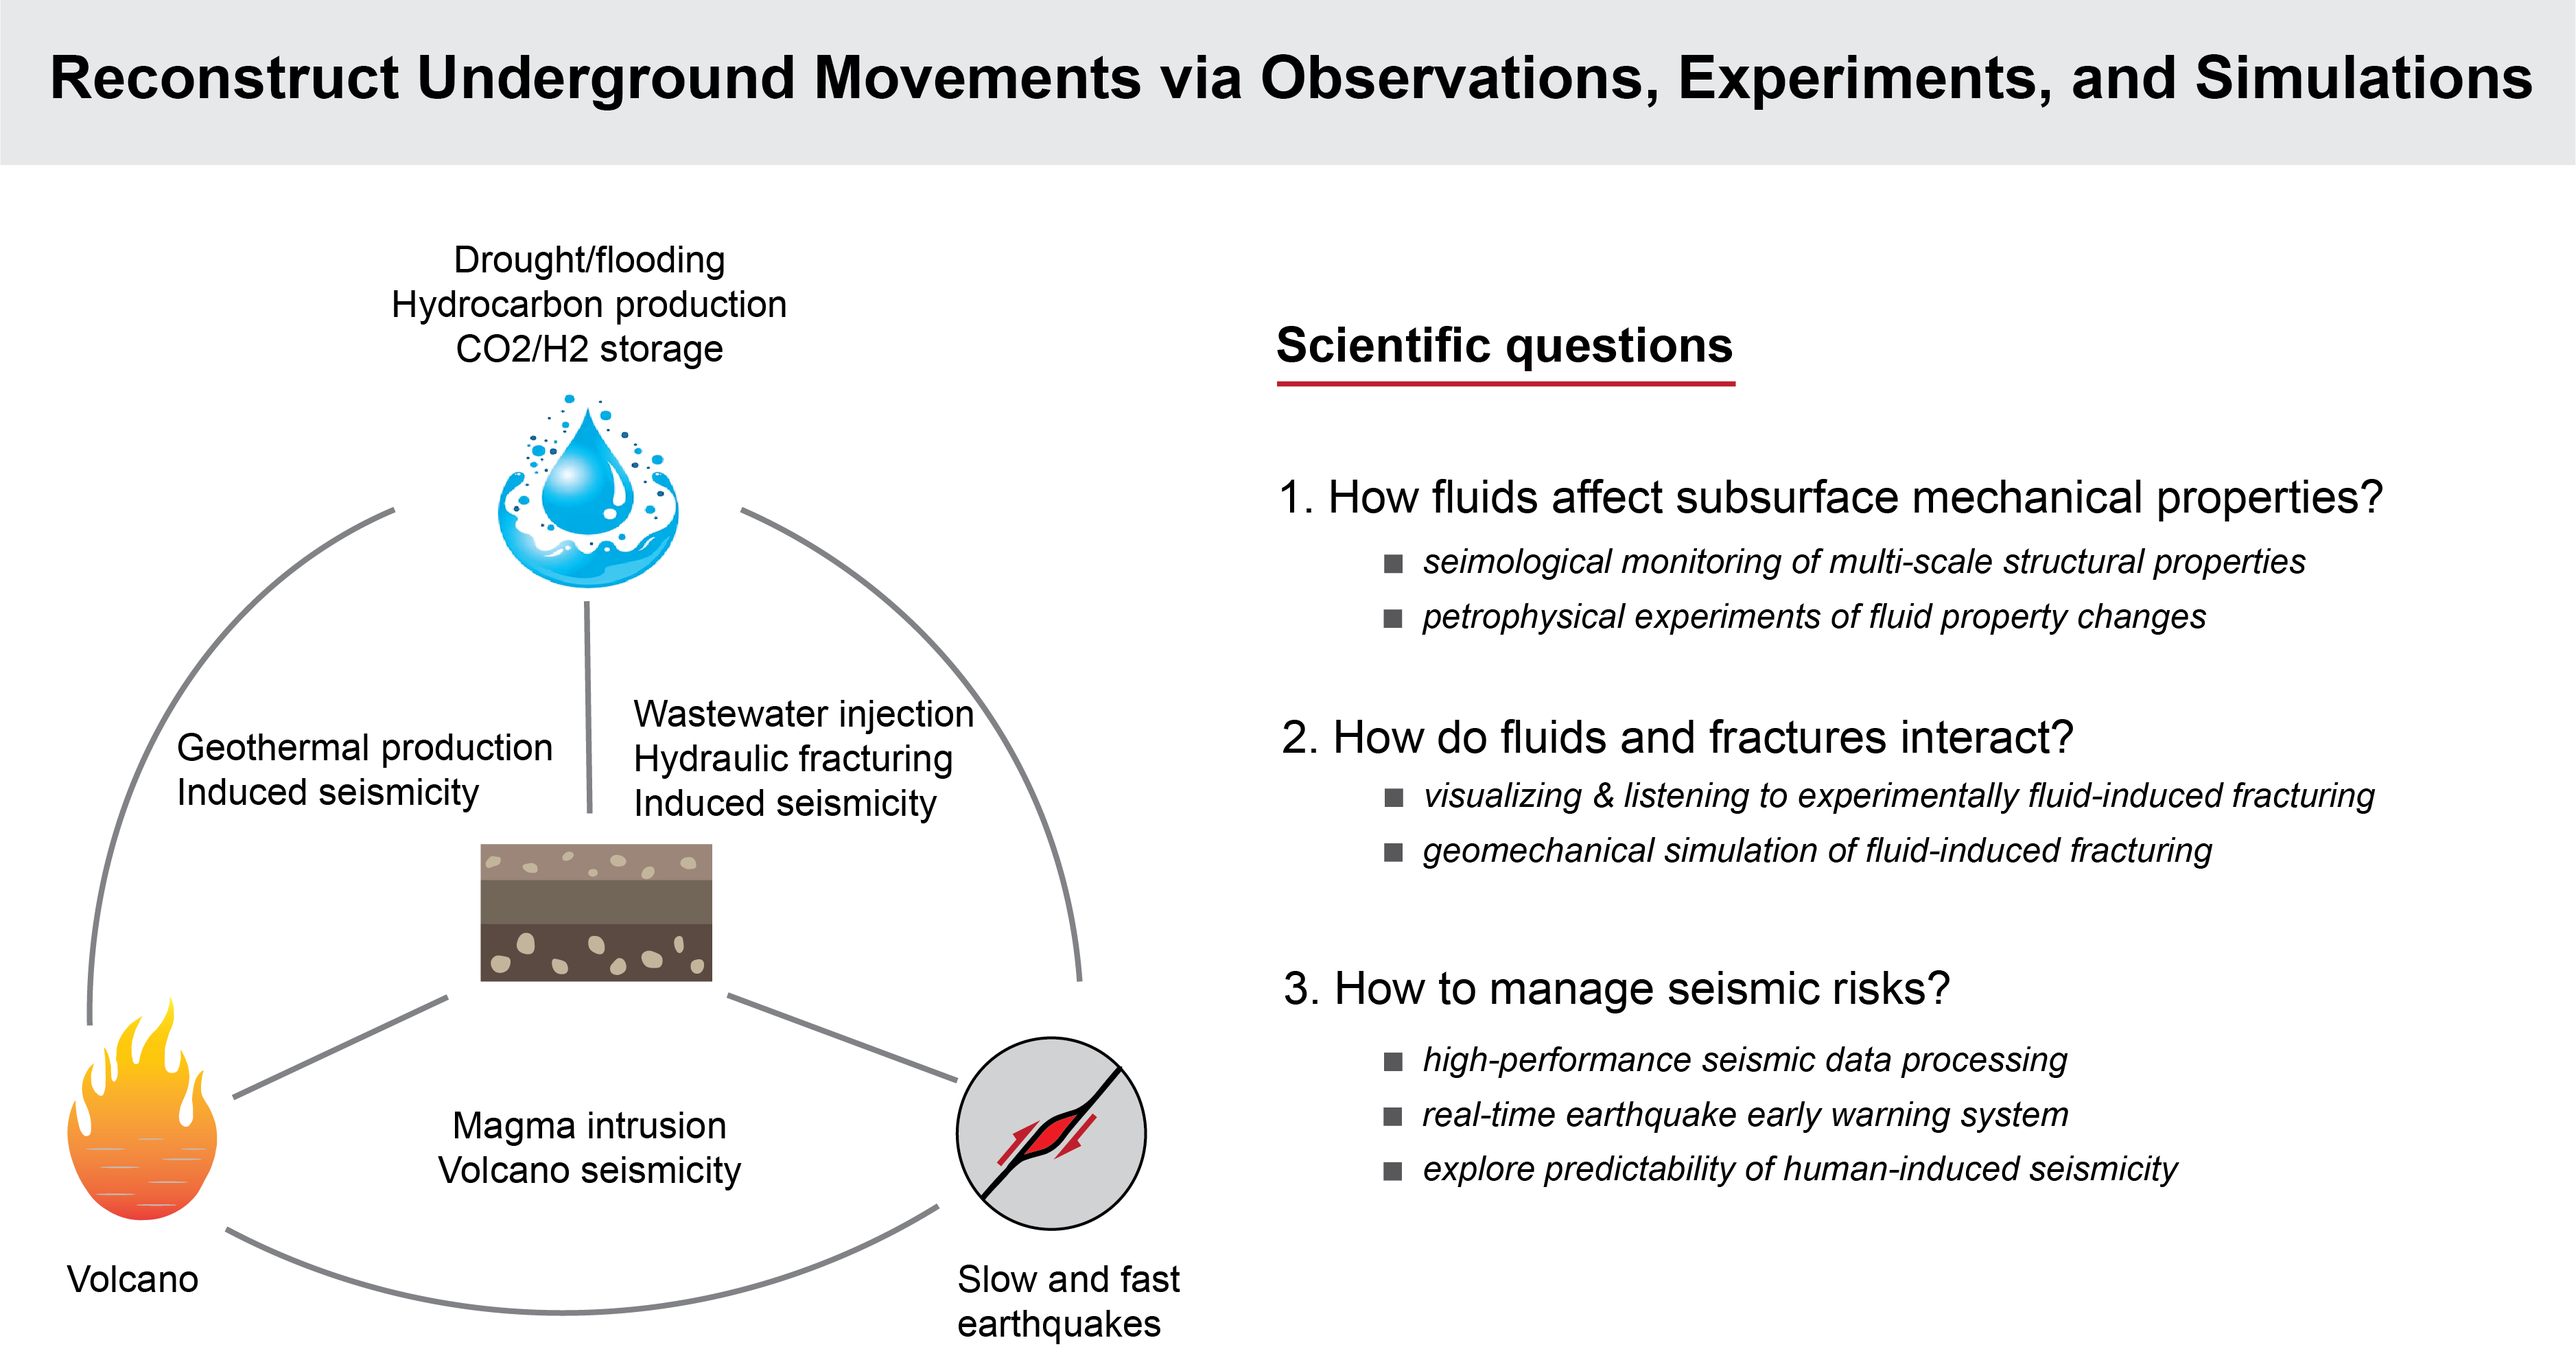
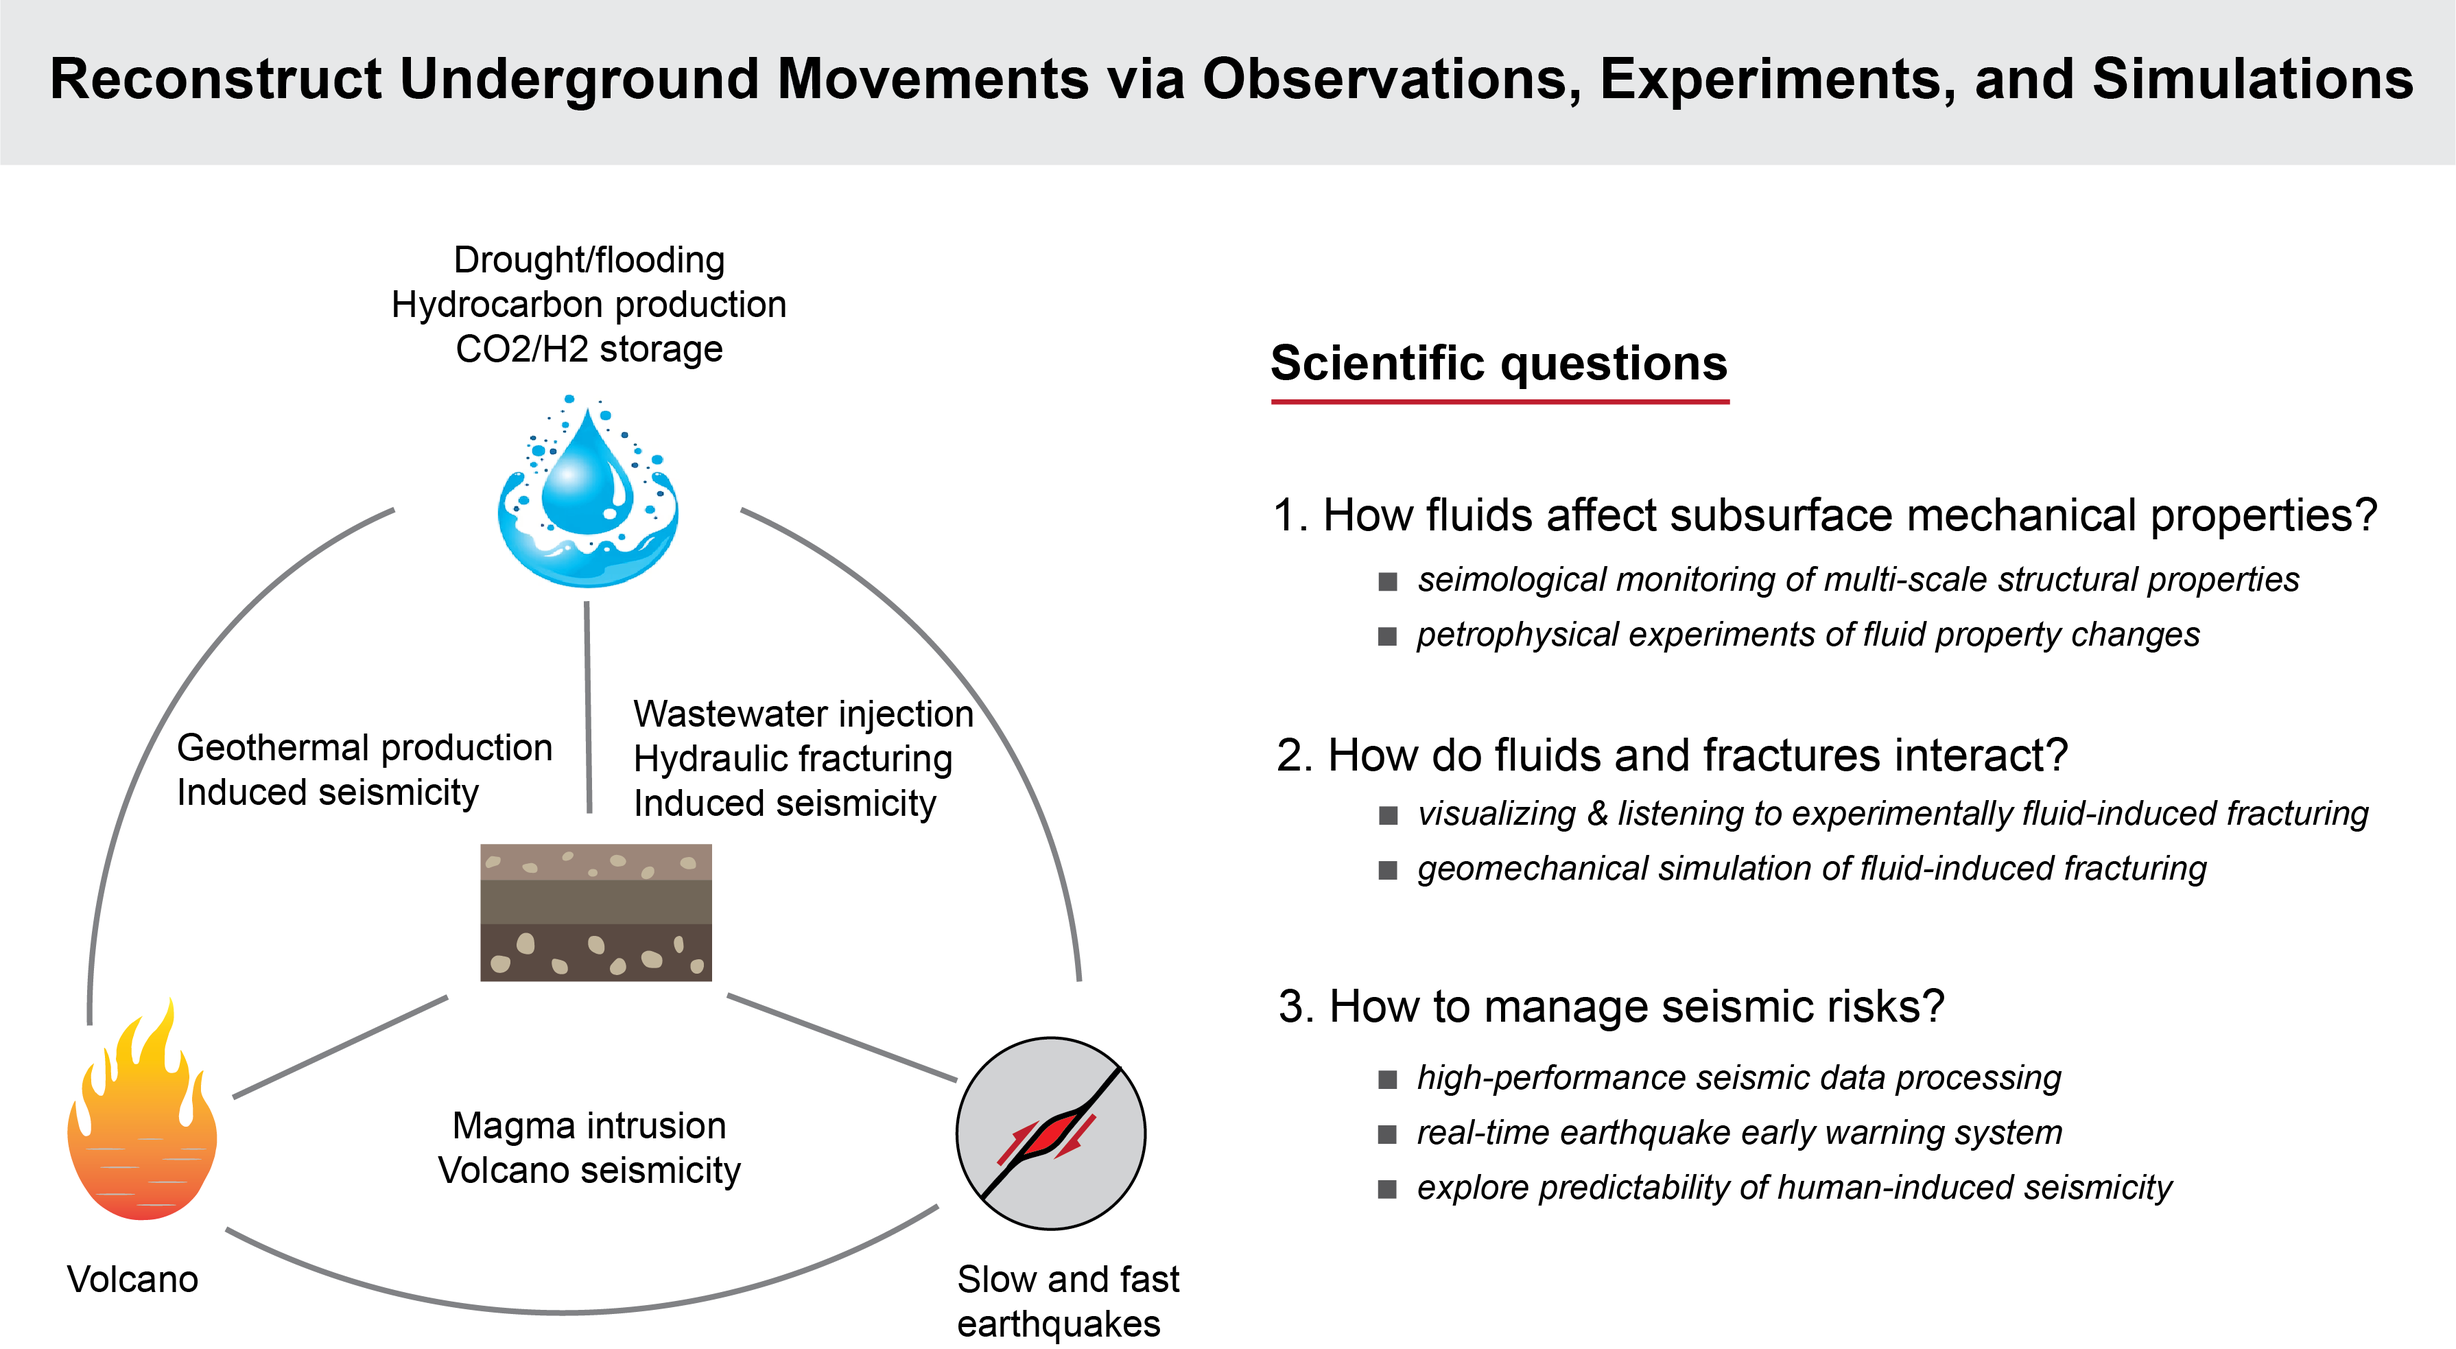
update image

diff --git a/_pages/research.md b/_pages/research.md
@@ -9,7 +9,7 @@ redirect_from:
 
 {% include base_path %}
 
-![Research_interests_20220924.jpg](../images/research/PhD_reseach_subjects_website.jpg)
+![Research_interests_20220924.jpg](../images/research/PhD_reseach_subjects_website.png)
 
 ## High-performance Earthquake Monitoring
 
